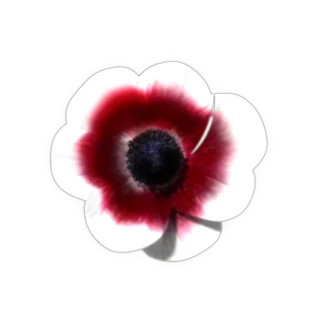
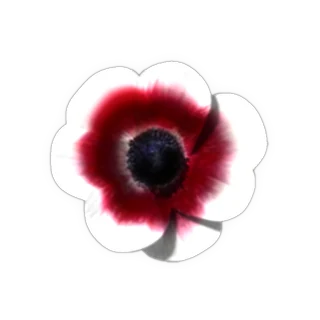
psyche-0.com: the anemone's scarlet, white/red-ring front and lilac left flowers rebuilt from the owner's render where the cut-out had punched through, the shadows between the overlapping petals restored as rendered

diff --git a/assets/anemone.js b/assets/anemone.js
@@ -4,7 +4,7 @@
 (function(){
   var mark=document.querySelector("header.site .bar a.mark");
   if(!mark||document.querySelector(".anemone"))return;
-  var M={"size":320,"na":72,"ext":149,"looks":[{"name":"S_L","er":29.21,"prof":[130.4,129.8,128.3,123.7,107.9,108.8,107.9,106.7,105.5,101.9,97.3,94.3,92.2,89.4,84.3,78.2,71.9,63.7,58.5,54.0,52.8,55.2,59.1,63.4,67.6,70.9,72.8,74.3,75.5,77.3,83.7,93.1,102.5,109.5,113.7,116.4,121.0,123.1,121.0,111.3,97.0,103.4,115.2,119.5,115.8,113.1,111.6,107.9,100.7,96.1,96.7,97.9,97.3,96.1,95.8,97.9,101.0,102.8,101.9,100.4,108.5,115.5,118.5,121.0,123.7,123.7,119.8,113.1,108.2,123.1,128.3,129.8]},{"name":"S_F","er":30.51,"prof":[106.6,99.9,101.4,103.5,104.3,103.5,102.7,99.4,94.5,94.7,100.2,103.0,103.8,104.6,104.8,105.1,103.5,102.0,99.4,95.2,92.1,96.0,98.6,101.2,101.2,99.9,97.8,95.2,90.8,86.2,82.0,88.5,95.5,100.7,103.3,104.0,104.3,104.0,103.8,101.4,97.0,97.8,101.7,103.3,103.0,103.5,104.3,104.0,103.0,100.7,98.3,92.4,84.9,90.6,94.5,96.8,99.6,99.9,98.9,97.3,94.5,90.6,86.4,92.6,102.0,106.9,110.8,113.1,113.6,114.1,113.6,111.8]},{"name":"S_R","er":27.41,"prof":[101.3,98.9,98.1,96.6,94.4,89.2,82.9,74.7,68.9,71.0,72.3,72.9,72.6,72.9,73.1,73.1,72.3,72.6,78.7,86.3,93.7,100.0,102.6,104.7,106.6,109.2,110.5,110.2,107.3,101.0,97.3,108.7,114.7,117.6,117.6,116.8,114.7,108.9,110.0,111.8,112.1,110.0,108.9,110.0,110.8,109.4,106.6,101.6,97.9,102.3,104.2,104.7,106.3,106.8,103.7,98.9,92.9,95.5,107.1,113.9,115.5,116.0,116.3,116.3,114.4,111.6,104.7,98.9,103.4,105.0,104.4,103.1]},{"name":"W_R","er":32.65,"prof":[112.7,115.2,119.1,119.9,119.1,117.9,115.4,109.4,99.9,93.2,99.4,102.7,103.7,102.7,99.2,93.9,90.4,86.9,82.7,77.4,80.4,82.4,84.2,86.7,88.9,89.7,89.2,87.4,86.7,85.9,85.9,84.7,82.9,80.7,75.9,68.2,74.9,82.7,89.2,93.9,97.7,100.2,103.2,103.9,101.9,105.2,110.2,112.4,110.9,108.2,105.4,101.4,94.4,103.9,110.9,113.4,114.7,113.9,113.9,114.7,114.4,107.9,95.4,93.4,101.9,107.9,113.2,116.1,116.9,117.1,118.1,116.1]},{"name":"W_F","er":29.98,"prof":[111.1,108.5,102.4,94.5,97.6,102.4,105.5,105.2,104.5,104.0,101.7,98.1,92.7,86.9,85.4,87.4,88.2,88.7,89.4,89.7,89.7,87.6,84.3,80.0,77.5,86.1,92.7,97.6,100.4,102.9,104.5,105.5,105.0,103.7,102.2,100.4,97.1,90.7,93.8,98.9,102.2,104.2,105.2,105.7,104.0,100.1,100.4,105.2,106.5,106.8,106.8,106.0,103.4,100.9,96.8,89.9,92.2,100.9,105.7,108.0,108.8,109.6,109.6,108.8,106.5,104.0,102.4,107.5,110.1,111.9,112.9,112.6]},{"name":"W_L","er":27.13,"prof":[82.6,85.2,90.9,94.3,94.6,93.7,90.6,83.7,77.5,73.8,72.3,70.6,69.2,66.9,64.4,61.5,64.4,67.2,70.3,73.5,77.8,81.5,83.7,85.2,85.7,86.6,88.9,91.4,94.3,94.8,93.7,83.2,84.0,98.8,113.3,121.3,126.2,125.6,121.0,124.2,124.5,120.5,114.8,112.2,109.1,102.5,94.0,96.8,109.4,113.9,117.1,119.9,120.5,120.8,121.9,123.0,119.3,108.5,115.3,121.3,123.9,123.3,122.7,123.3,122.7,119.0,115.1,116.8,116.5,115.1,110.5,97.7]},{"name":"P_L","er":31.22,"prof":[115.1,107.1,117.4,125.1,129.3,130.8,130.5,127.9,118.8,111.1,102.6,91.7,82.9,80.3,77.5,72.9,69.8,68.1,66.7,64.9,63.5,61.2,60.4,62.7,64.4,67.2,70.6,74.6,78.9,85.5,93.2,98.3,101.4,103.4,107.4,107.1,104.5,100.8,109.7,117.6,124.5,125.9,123.9,117.1,108.0,91.4,101.4,106.8,107.7,108.0,107.7,106.5,104.5,102.3,100.0,100.0,101.7,104.3,107.1,109.7,109.1,107.7,106.8,106.3,103.4,98.8,108.0,113.9,116.5,116.2,115.7,116.2]},{"name":"P_F","er":33.0,"prof":[97.3,98.8,98.3,97.0,96.0,94.0,90.2,85.6,87.1,93.0,97.5,101.6,103.7,104.2,104.7,105.7,104.7,101.9,97.0,91.4,84.6,83.0,89.6,93.0,94.2,95.5,96.3,96.3,95.5,93.5,99.1,104.7,108.0,110.5,112.1,111.8,111.3,109.5,106.2,101.1,94.5,96.3,100.1,101.1,100.9,101.1,101.1,99.1,96.0,91.7,88.4,95.8,100.9,103.4,104.9,107.0,108.2,108.2,106.2,102.6,96.5,100.9,104.7,106.7,108.0,109.5,110.3,109.8,107.5,102.9,95.8,94.7]},{"name":"P_R","er":31.89,"prof":[96.5,92.3,87.7,84.0,80.7,76.8,72.1,69.3,72.6,76.5,80.1,82.7,85.3,88.7,91.0,92.9,93.9,95.4,97.0,97.0,94.4,95.7,99.9,104.3,107.9,110.2,111.8,113.1,112.6,109.2,100.1,79.6,92.9,104.3,112.8,116.7,117.5,117.0,114.4,111.8,108.9,104.8,101.9,103.5,103.7,103.0,101.9,100.9,96.7,90.8,83.5,93.1,103.5,109.5,112.8,112.6,111.8,110.7,109.5,105.0,103.2,110.0,113.3,114.9,115.4,115.4,113.9,108.9,102.2,98.3,99.1,98.6]},{"name":"C_R","er":43.5,"prof":[109.8,109.3,107.2,106.7,106.4,103.8,99.1,92.0,82.8,82.8,84.4,85.4,85.7,85.2,84.9,84.4,82.8,88.9,95.7,102.7,108.2,110.3,111.9,112.4,114.0,114.3,111.9,106.7,95.1,102.0,108.5,112.2,113.2,111.7,110.1,106.7,99.1,100.9,101.7,101.4,99.3,97.2,96.7,97.2,97.8,96.5,93.0,88.3,83.9,88.1,90.7,91.7,92.8,94.9,95.4,93.3,89.4,85.2,82.6,97.2,106.7,110.1,111.7,112.7,114.0,113.8,113.0,109.0,100.6,105.9,108.8,110.1]},{"name":"C_F","er":41.89,"prof":[100.9,94.0,96.0,97.8,98.6,98.6,97.8,95.3,90.9,86.2,94.2,98.4,99.7,100.4,101.5,102.2,102.5,101.2,99.9,97.6,92.4,93.2,97.3,100.9,102.8,102.8,101.2,99.4,96.5,92.1,87.2,90.1,97.8,103.8,107.7,109.5,109.5,109.5,109.2,107.2,102.2,103.8,107.4,108.2,107.9,108.2,108.7,107.9,105.6,103.3,98.4,88.8,91.4,94.7,97.1,99.1,100.2,99.1,96.8,93.4,90.1,85.7,87.0,95.0,101.5,105.3,107.4,109.0,109.5,109.2,108.2,105.9]},{"name":"C_L","er":43.61,"prof":[117.4,118.9,120.4,120.4,119.2,113.5,102.1,106.0,106.3,106.6,105.7,103.9,101.2,100.0,98.8,97.0,92.5,87.4,82.3,75.1,70.3,67.0,70.3,76.0,82.3,86.5,88.6,90.1,91.9,96.1,105.7,115.0,121.6,124.9,127.6,131.5,130.9,124.9,107.2,103.3,115.0,119.5,117.4,112.0,109.0,104.5,96.4,89.2,88.6,88.0,86.8,84.4,82.9,82.6,83.2,85.6,86.5,85.6,83.5,86.8,92.8,97.3,100.3,102.7,105.4,107.5,105.7,102.4,97.3,92.2,108.1,114.7]}],"rot":[15.0,-45.0,45.0,-35.0,-40.0,35.0,-25.0,0.0,30.0,20.0,-15.0,0.0]};
+  var M={"size":320,"na":72,"ext":149,"looks":[{"name":"S_L","er":29.21,"prof":[130.4,129.8,128.3,123.7,107.9,108.8,107.9,106.7,105.5,101.9,97.3,94.3,92.2,89.4,84.3,78.2,71.9,63.7,58.5,54.0,52.8,55.2,59.1,63.4,67.6,70.9,72.8,74.3,75.5,77.3,83.7,93.1,102.5,109.5,113.7,116.4,121.0,123.1,121.0,111.3,97.0,103.4,115.2,119.5,115.8,113.1,111.6,107.9,100.7,96.1,96.7,97.9,97.3,96.1,95.8,97.9,101.0,102.8,101.9,100.4,108.5,115.5,118.5,121.0,123.7,123.7,119.8,113.1,108.2,123.1,128.3,129.8]},{"name":"S_F","er":30.88,"prof":[106.3,99.6,100.6,102.7,103.2,103.4,102.4,99.6,94.9,93.3,99.6,102.4,103.4,104.7,105.2,105.0,104.7,102.4,100.6,96.2,93.1,96.5,99.3,101.6,101.6,101.1,99.0,96.2,91.8,87.1,83.3,89.7,96.2,101.6,104.5,104.7,105.0,104.7,104.0,101.6,97.2,98.8,102.1,103.4,103.2,104.0,104.2,104.2,102.4,100.6,97.5,92.3,86.9,90.5,93.6,96.7,98.3,99.3,98.0,95.9,93.3,89.7,85.3,92.3,100.8,105.8,109.6,111.7,112.5,113.3,112.7,110.9]},{"name":"S_R","er":27.41,"prof":[101.3,98.9,98.1,96.6,94.4,89.2,82.9,74.7,68.9,71.0,72.3,72.9,72.6,72.9,73.1,73.1,72.3,72.6,78.7,86.3,93.7,100.0,102.6,104.7,106.6,109.2,110.5,110.2,107.3,101.0,97.3,108.7,114.7,117.6,117.6,116.8,114.7,108.9,110.0,111.8,112.1,110.0,108.9,110.0,110.8,109.4,106.6,101.6,97.9,102.3,104.2,104.7,106.3,106.8,103.7,98.9,92.9,95.5,107.1,113.9,115.5,116.0,116.3,116.3,114.4,111.6,104.7,98.9,103.4,105.0,104.4,103.1]},{"name":"W_R","er":32.65,"prof":[112.7,115.2,119.1,119.9,119.1,117.9,115.4,109.4,99.9,93.2,99.4,102.7,103.7,102.7,99.2,93.9,90.4,86.9,82.7,77.4,80.4,82.4,84.2,86.7,88.9,89.7,89.2,87.4,86.7,85.9,85.9,84.7,82.9,80.7,75.9,68.2,74.9,82.7,89.2,93.9,97.7,100.2,103.2,103.9,101.9,105.2,110.2,112.4,110.9,108.2,105.4,101.4,94.4,103.9,110.9,113.4,114.7,113.9,113.9,114.7,114.4,107.9,95.4,93.4,101.9,107.9,113.2,116.1,116.9,117.1,118.1,116.1]},{"name":"W_F","er":29.98,"prof":[111.1,108.5,102.4,94.5,97.6,102.4,105.5,105.2,104.5,104.0,101.7,98.1,92.7,86.9,85.4,87.4,88.2,88.7,89.4,89.7,89.7,87.6,84.3,80.0,77.5,86.1,92.7,97.6,100.4,102.9,104.5,105.5,105.0,103.7,102.2,100.4,97.1,90.7,93.8,98.9,102.2,104.2,105.2,105.7,104.0,100.1,100.4,105.2,106.5,106.8,106.8,106.0,103.4,100.9,96.8,89.9,92.2,100.9,105.7,108.0,108.8,109.6,109.6,108.8,106.5,104.0,102.4,107.5,110.1,111.9,112.9,112.6]},{"name":"W_L","er":27.13,"prof":[82.6,85.2,90.9,94.3,94.6,93.7,90.6,83.7,77.5,73.8,72.3,70.6,69.2,66.9,64.4,61.5,64.4,67.2,70.3,73.5,77.8,81.5,83.7,85.2,85.7,86.6,88.9,91.4,94.3,94.8,93.7,83.2,84.0,98.8,113.3,121.3,126.2,125.6,121.0,124.2,124.5,120.5,114.8,112.2,109.1,102.5,94.0,96.8,109.4,113.9,117.1,119.9,120.5,120.8,121.9,123.0,119.3,108.5,115.3,121.3,123.9,123.3,122.7,123.3,122.7,119.0,115.1,116.8,116.5,115.1,110.5,97.7]},{"name":"P_L","er":31.35,"prof":[115.3,108.5,117.6,125.3,129.2,131.0,130.4,128.1,119.0,111.3,102.8,92.0,83.7,80.6,77.7,73.4,70.3,68.3,66.9,65.5,63.8,61.5,60.9,63.2,64.6,67.8,70.9,74.6,79.1,86.0,92.8,98.2,101.3,103.9,107.0,107.0,104.2,101.3,109.3,117.3,123.8,125.5,123.3,116.4,107.3,91.1,101.3,106.5,107.3,107.6,107.3,106.2,104.2,101.9,99.6,100.2,101.3,103.9,106.8,109.3,108.8,107.6,106.5,105.9,103.6,99.1,107.3,113.6,116.4,116.4,115.9,116.2]},{"name":"P_F","er":33.0,"prof":[97.3,98.8,98.3,97.0,96.0,94.0,90.2,85.6,87.1,93.0,97.5,101.6,103.7,104.2,104.7,105.7,104.7,101.9,97.0,91.4,84.6,83.0,89.6,93.0,94.2,95.5,96.3,96.3,95.5,93.5,99.1,104.7,108.0,110.5,112.1,111.8,111.3,109.5,106.2,101.1,94.5,96.3,100.1,101.1,100.9,101.1,101.1,99.1,96.0,91.7,88.4,95.8,100.9,103.4,104.9,107.0,108.2,108.2,106.2,102.6,96.5,100.9,104.7,106.7,108.0,109.5,110.3,109.8,107.5,102.9,95.8,94.7]},{"name":"P_R","er":31.89,"prof":[96.5,92.3,87.7,84.0,80.7,76.8,72.1,69.3,72.6,76.5,80.1,82.7,85.3,88.7,91.0,92.9,93.9,95.4,97.0,97.0,94.4,95.7,99.9,104.3,107.9,110.2,111.8,113.1,112.6,109.2,100.1,79.6,92.9,104.3,112.8,116.7,117.5,117.0,114.4,111.8,108.9,104.8,101.9,103.5,103.7,103.0,101.9,100.9,96.7,90.8,83.5,93.1,103.5,109.5,112.8,112.6,111.8,110.7,109.5,105.0,103.2,110.0,113.3,114.9,115.4,115.4,113.9,108.9,102.2,98.3,99.1,98.6]},{"name":"C_R","er":43.5,"prof":[109.8,109.3,107.2,106.7,106.4,103.8,99.1,92.0,82.8,82.8,84.4,85.4,85.7,85.2,84.9,84.4,82.8,88.9,95.7,102.7,108.2,110.3,111.9,112.4,114.0,114.3,111.9,106.7,95.1,102.0,108.5,112.2,113.2,111.7,110.1,106.7,99.1,100.9,101.7,101.4,99.3,97.2,96.7,97.2,97.8,96.5,93.0,88.3,83.9,88.1,90.7,91.7,92.8,94.9,95.4,93.3,89.4,85.2,82.6,97.2,106.7,110.1,111.7,112.7,114.0,113.8,113.0,109.0,100.6,105.9,108.8,110.1]},{"name":"C_F","er":42.02,"prof":[100.6,94.1,95.7,97.8,98.3,98.3,97.5,94.9,90.8,86.6,93.6,97.8,99.6,100.3,101.1,102.1,102.7,101.6,99.6,97.5,92.8,93.6,97.2,100.9,102.7,102.7,101.6,99.6,96.7,92.3,87.9,90.3,98.0,104.0,107.8,109.6,109.6,109.6,109.4,107.1,102.4,104.0,107.6,108.1,108.1,108.4,108.6,107.8,105.8,103.2,98.5,90.0,91.8,94.9,97.2,99.0,99.8,99.0,96.7,93.6,90.3,85.1,87.1,95.2,101.4,105.0,107.6,108.6,109.1,108.9,107.8,105.5]},{"name":"C_L","er":43.61,"prof":[117.4,118.9,120.4,120.4,119.2,113.5,102.1,106.0,106.3,106.6,105.7,103.9,101.2,100.0,98.8,97.0,92.5,87.4,82.3,75.1,70.3,67.0,70.3,76.0,82.3,86.5,88.6,90.1,91.9,96.1,105.7,115.0,121.6,124.9,127.6,131.5,130.9,124.9,107.2,103.3,115.0,119.5,117.4,112.0,109.0,104.5,96.4,89.2,88.6,88.0,86.8,84.4,82.9,82.6,83.2,85.6,86.5,85.6,83.5,86.8,92.8,97.3,100.3,102.7,105.4,107.5,105.7,102.4,97.3,92.2,108.1,114.7]}],"rot":[15.0,-45.0,45.0,-35.0,-40.0,35.0,-25.0,0.0,30.0,20.0,-15.0,0.0]};
   var LOOKS=M.looks,NA=M.na,S=M.size,ROT=M.rot,N=LOOKS.length;
   var HOLD=30000,TRANS=90000,SEG=HOLD+TRANS,PERIOD=SEG*N;
   var css=document.createElement("style");

diff --git a/map.html b/map.html
@@ -104,6 +104,6 @@ If you don’t win: Signal completed.</pre>
   <span>psyche-0.com</span>
 </div></div></footer>
 <script src="assets/console.js?v=20261026a"></script>
-<script src="assets/anemone.js?v=20261105b" defer></script>
+<script src="assets/anemone.js?v=20261105c" defer></script>
 </body>
 </html>

diff --git a/net.html b/net.html
@@ -219,7 +219,7 @@
   <span>psyche-0.com</span>
 </div></div></footer>
 <script src="assets/console.js?v=20261026a"></script>
-<script src="assets/anemone.js?v=20261105b" defer></script>
+<script src="assets/anemone.js?v=20261105c" defer></script>
 <script>
 (function(){
 var NS="http://www.w3.org/2000/svg";

diff --git a/engage.html b/engage.html
@@ -140,6 +140,6 @@
   <span>psyche-0.com</span>
 </div></div></footer>
 <script src="assets/console.js?v=20261026a"></script>
-<script src="assets/anemone.js?v=20261105b" defer></script>
+<script src="assets/anemone.js?v=20261105c" defer></script>
 </body>
 </html>

diff --git a/about.html b/about.html
@@ -56,6 +56,6 @@
   <span>psyche-0.com</span>
 </div></div></footer>
 <script src="assets/console.js?v=20261026a"></script>
-<script src="assets/anemone.js?v=20261105b" defer></script>
+<script src="assets/anemone.js?v=20261105c" defer></script>
 </body>
 </html>

diff --git a/index.html b/index.html
@@ -63,6 +63,6 @@
   <span>psyche-0.com</span>
 </div></div></footer>
 <script src="assets/console.js?v=20261026a"></script>
-<script src="assets/anemone.js?v=20261105b" defer></script>
+<script src="assets/anemone.js?v=20261105c" defer></script>
 </body>
 </html>

diff --git a/intelligence.html b/intelligence.html
@@ -79,6 +79,6 @@
   <span>psyche-0.com</span>
 </div></div></footer>
 <script src="assets/console.js?v=20261026a"></script>
-<script src="assets/anemone.js?v=20261105b" defer></script>
+<script src="assets/anemone.js?v=20261105c" defer></script>
 </body>
 </html>

diff --git a/missions.html b/missions.html
@@ -72,6 +72,6 @@
   <span>psyche-0.com</span>
 </div></div></footer>
 <script src="assets/console.js?v=20261026a"></script>
-<script src="assets/anemone.js?v=20261105b" defer></script>
+<script src="assets/anemone.js?v=20261105c" defer></script>
 </body>
 </html>

diff --git a/paper.html b/paper.html
@@ -65,6 +65,6 @@
   <span>psyche-0.com</span>
 </div></div></footer>
 <script src="assets/console.js?v=20261026a"></script>
-<script src="assets/anemone.js?v=20261105b" defer></script>
+<script src="assets/anemone.js?v=20261105c" defer></script>
 </body>
 </html>

diff --git a/sqcd-1.html b/sqcd-1.html
@@ -99,6 +99,6 @@
   <span>psyche-0.com</span>
 </div></div></footer>
 <script src="assets/console.js?v=20261026a"></script>
-<script src="assets/anemone.js?v=20261105b" defer></script>
+<script src="assets/anemone.js?v=20261105c" defer></script>
 </body>
 </html>

diff --git a/404.html b/404.html
@@ -32,6 +32,6 @@
     <div class="row-cta"><a class="ghost" href="/">Overview</a></div>
   </div>
 </section>
-<script src="assets/anemone.js?v=20261105b" defer></script>
+<script src="assets/anemone.js?v=20261105c" defer></script>
 </body>
 </html>
